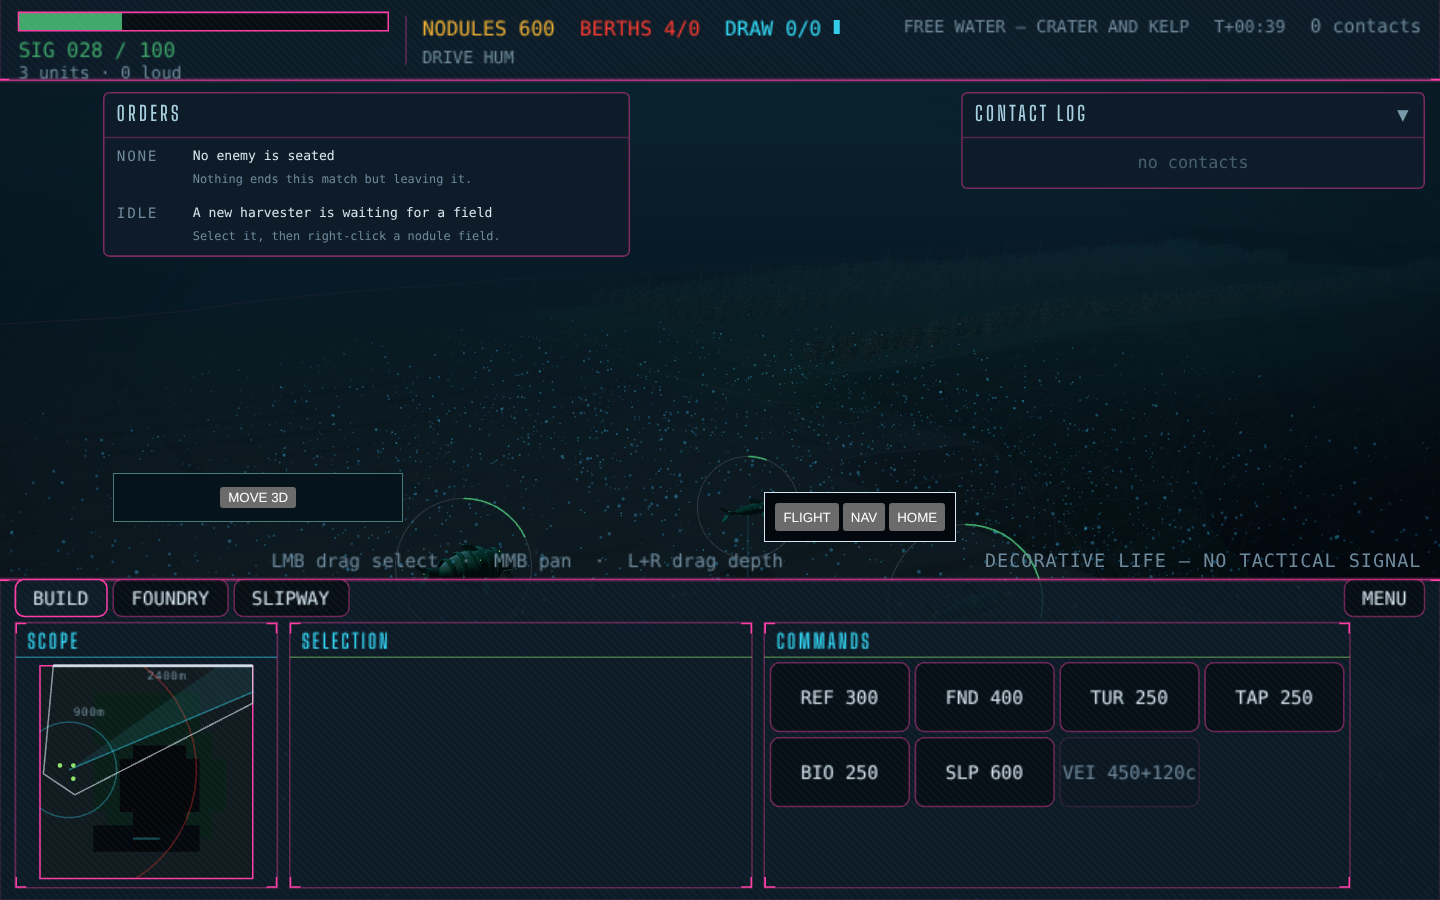
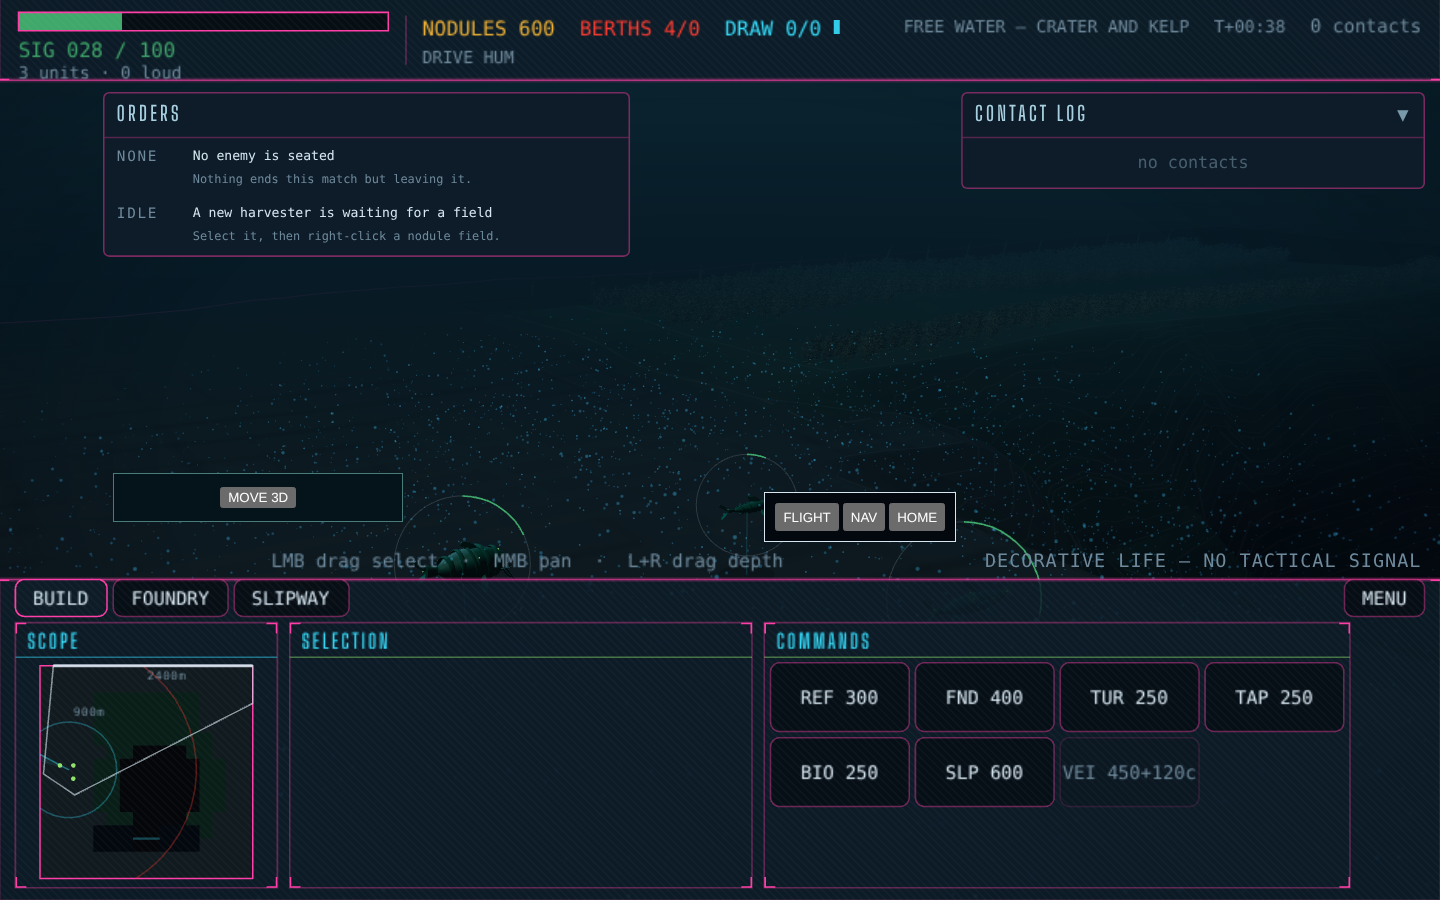
fix: let only the free-water legend move the hint line (#1752)
Round 2's critic found the hint yielding to every floating panel, and
the mission log's foot stands 8 units into the hint row, so mission
maps would have lost a clause (#1762). The legend now reaches the
renderer by its own path, setHintRowPanels, and the hint reads nothing
else; the smoke test holds the floating panels taking nothing.

Claude-Session: https://claude.ai/code/session_01NEz7w3GiEXYsKAzV6DCFVh

diff --git a/packages/frontend/src/game/panelRects.ts b/packages/frontend/src/game/panelRects.ts
@@ -14,13 +14,17 @@
  */
 import type { PanelRect } from './EchoRenderer.ts';
 
+/** The panels that float over the water: orders or objectives, the contact log, the mission log. */
+export const FLOATING_PANELS = '.objectives, .contact-log, .mission-log';
+
 /**
- * The panels that float over the water: orders or objectives, the contact log,
- * the mission log, and the free-water study's decorative-life legend, which
- * stands on the hint line's row and which the hint yields to (`EchoRenderer`,
- * the hint line).
+ * The free-water study's decorative-life legend, which stands on the hint
+ * line's row and which the hint yields to (`EchoRenderer`, the hint line). Its
+ * own path, not a floating panel: the mission log's foot stands 8 units into
+ * that row too, and a hint that yielded to every panel would be cut on every
+ * mission map, which is docs/ui-ux.md §2's call and not the study's.
  */
-export const FLOATING_PANELS = '.objectives, .contact-log, .mission-log, .decorative-life';
+export const HINT_ROW_PANELS = '.decorative-life';
 
 /** A running watch: measure again now, or stop. */
 export interface PanelWatch {
@@ -35,7 +39,8 @@ export interface PanelWatch {
 export function watchPanels(
   layer: HTMLElement,
   canvasHost: HTMLElement,
-  push: (rects: PanelRect[]) => void
+  push: (rects: PanelRect[]) => void,
+  pushHintRow: (rects: PanelRect[]) => void = () => {}
 ): PanelWatch {
   // The headless test runner has no MutationObserver, and lays nothing out.
   if (typeof ResizeObserver === 'undefined' || typeof MutationObserver === 'undefined') {
@@ -43,25 +48,31 @@ export function watchPanels(
   }
   const measure = (): void => {
     const origin = canvasHost.getBoundingClientRect();
-    const rects: PanelRect[] = [];
-    for (const panel of layer.querySelectorAll(FLOATING_PANELS)) {
-      const r = panel.getBoundingClientRect();
-      // The contact log is `display: none` under 900 px wide, and covers nothing.
-      if (r.width === 0 || r.height === 0) continue;
-      rects.push({
-        x: r.left - origin.left,
-        y: r.top - origin.top,
-        width: r.width,
-        height: r.height,
-      });
-    }
-    push(rects);
+    const rectsOf = (selector: string): PanelRect[] => {
+      const rects: PanelRect[] = [];
+      for (const panel of layer.querySelectorAll(selector)) {
+        const r = panel.getBoundingClientRect();
+        // The contact log is `display: none` under 900 px wide, and covers nothing.
+        if (r.width === 0 || r.height === 0) continue;
+        rects.push({
+          x: r.left - origin.left,
+          y: r.top - origin.top,
+          width: r.width,
+          height: r.height,
+        });
+      }
+      return rects;
+    };
+    push(rectsOf(FLOATING_PANELS));
+    pushHintRow(rectsOf(HINT_ROW_PANELS));
   };
   const sizes = new ResizeObserver(measure);
   const watchAll = (): void => {
     sizes.disconnect();
     sizes.observe(canvasHost);
-    for (const panel of layer.querySelectorAll(FLOATING_PANELS)) sizes.observe(panel);
+    for (const panel of layer.querySelectorAll(`${FLOATING_PANELS}, ${HINT_ROW_PANELS}`)) {
+      sizes.observe(panel);
+    }
     measure();
   };
   const mounts = new MutationObserver(watchAll);

diff --git a/packages/frontend/src/game/EchoRenderer.ts b/packages/frontend/src/game/EchoRenderer.ts
@@ -2109,6 +2109,8 @@ export class EchoRenderer {
    * px: a name does not stand under one. `panelKey` rides the force key.
    */
   private panelRects: readonly PanelRect[] = [];
+  /** The panels on the hint line's row, which the hint yields to: the study's legend. */
+  private hintRowPanels: readonly PanelRect[] = [];
   private panelKey = '';
   /** Boxes the last name pass tried, for the counted-work assertion. */
   markBoxesTried = 0;
@@ -5670,6 +5672,17 @@ export class EchoRenderer {
   }
 
   /**
+   * The DOM panels standing on the hint line's row, in canvas px (GameCanvas,
+   * `watchPanels`): the free-water study's legend (docs/free-water-slice.md
+   * §9). The hint yields to these alone, a clause at a time, and not to the
+   * floating panels over the water, whose rects keep a marker's name out from
+   * under them and nothing else.
+   */
+  setHintRowPanels(rects: readonly PanelRect[]): void {
+    this.hintRowPanels = rects;
+  }
+
+  /**
    * The places to draw on the chart, off the mission view (docs/ui-ux.md
    * §10.5, #1611): a marker with a `name`, while a row that names it is open
    * — as where it sends the camera, or as the place on its way (#1594's
@@ -9055,11 +9068,14 @@ export class EchoRenderer {
     // The hint yields to a panel standing on its row: the free-water study's
     // legend takes the row's right end (App.css `.decorative-life`), and at a
     // raised UI scale a hint run under it reads as covered rather than as
-    // long. The rects arrive in canvas px, so the HUD's are those over the
-    // scale; a panel wholly left of the hint's start is the scope's business.
+    // long. Only the panels handed over for this row (`setHintRowPanels`): the
+    // floating panels over the water are not read here, since the mission
+    // log's foot stands 8 units into the row and the hint on a mission map
+    // is docs/ui-ux.md §2's, not the study's. The rects arrive in canvas px,
+    // so the HUD's are those over the scale.
     const rowTop = this.hudHeight() - CONSOLE_HEIGHT - HINT_LINE_HEIGHT;
     let hintEnd = this.hudWidth() - 12;
-    for (const panel of this.panelRects) {
+    for (const panel of this.hintRowPanels) {
       const left = panel.x / this.uiScale;
       const top = panel.y / this.uiScale;
       const bottom = top + panel.height / this.uiScale;

diff --git a/packages/frontend/test/rendererSmoke.test.ts b/packages/frontend/test/rendererSmoke.test.ts
@@ -3768,19 +3768,28 @@ describe('the interface cues the renderer reports (#1600)', () => {
       };
       const whole = hint().text;
       const rowTop = 720 - CONSOLE_HEIGHT - HINT_LINE_HEIGHT;
-      // A panel over the water, clear of the row: the hint is untouched.
-      world.chart.setPanelRects([{ x: 800, y: 300, width: 470, height: 40 }]);
+      // The floating panels over the water take nothing, wherever they stand:
+      // the mission log's foot is 8 units into the row (App.css, 220 against
+      // HINT_ROW_UNITS), and a hint on a mission map is not the study's to cut.
+      world.chart.setPanelRects([
+        { x: 800, y: 300, width: 470, height: 40 },
+        { x: 800, y: 720 - 220 - 150, width: 470, height: 150 },
+      ]);
+      world.frame(2);
+      assert.equal(hint().text, whole, 'the floating panels take nothing');
+      // A hint-row panel clear of the row takes nothing either.
+      world.chart.setHintRowPanels([{ x: 800, y: 300, width: 470, height: 40 }]);
       world.frame(2);
       assert.equal(hint().text, whole, 'a panel off the row takes nothing');
       // The legend's place: the row's right end.
       const legend = { x: 800, y: rowTop + 3, width: 470, height: 16 };
-      world.chart.setPanelRects([legend]);
+      world.chart.setHintRowPanels([legend]);
       world.frame(2);
       const yielded = hint();
       assert.notEqual(yielded.text, whole, 'the hint gave up a clause');
       assert.ok(whole.startsWith(yielded.text), 'and only from its end');
       assert.ok(yielded.x + yielded.width <= legend.x - 12, 'clear of the legend, with a gap');
-      world.chart.setPanelRects([]);
+      world.chart.setHintRowPanels([]);
       world.frame(2);
       assert.equal(hint().text, whole, 'and takes it back when the row is free');
     } finally {

diff --git a/packages/frontend/src/game/GameCanvas.tsx b/packages/frontend/src/game/GameCanvas.tsx
@@ -597,8 +597,11 @@ export function GameCanvas({
       // Where the floating panels cover the water, for the one chart mark
       // that keeps out from under them: a marker's name (§10.5, #1662).
       if (underRef.current !== null) {
-        panelsRef.current = watchPanels(underRef.current, host, (rects) =>
-          activeRenderer.setPanelRects(rects)
+        panelsRef.current = watchPanels(
+          underRef.current,
+          host,
+          (rects) => activeRenderer.setPanelRects(rects),
+          (rects) => activeRenderer.setHintRowPanels(rects)
         );
       }
 

diff --git a/docs/free-water-slice.md b/docs/free-water-slice.md
@@ -539,7 +539,7 @@ band, and heads about 34 degrees east of north, toward A, which is `yawDeg` −3
 code. The focus offset and the dolly are TUNABLEs chosen against the opening row
 (`FREE_WATER_OPENING` in `packages/shared/src/constants.ts`): the focus 300 m ahead of the
 centroid, and a dolly of 1,200 m. The eye is then 1,110 m above the Lid, as the Home frame's
-is 8,900 m above it: the field of view is 40 degrees and the console takes the bottom
+is about 9,100 m above it: the field of view is 40 degrees and the console takes the bottom
 quarter of the window, so a nearer eye at this pitch loses the hulls under the console,
 and a focus nearer the centroid lifts them to the centre. At this dolly the water reaches
 about 1,800 m (§9, Water medium), so the hulls, about 900 m off, read through it, and the
@@ -548,8 +548,8 @@ degrees and the seabed, and keeps this dolly and place as it keeps any.
 
 The legend is one line with no box, in the bottom-right corner, which the study leaves
 free because it runs no mission log: on the hint line's row, right-aligned, in the hint's
-own dim type, and the hint yields to it, trimming a clause at a time as it does for a
-narrow window. FLIGHT, NAV and HOME stand beside the console's command block, on the hint
+own dim type, and the hint yields to it alone, trimming a clause at a time as it does for
+a narrow window; the panels over the water move no hint. FLIGHT, NAV and HOME stand beside the console's command block, on the hint
 line above it and on the block's left edge, which the shell reads off the console's own
 layout, keeping their labels, focus order and shortcuts. The rest of the panel stands with
 them and keeps its conditions: the EYE and world-up readout and NO CAMERA CLEARANCE in
